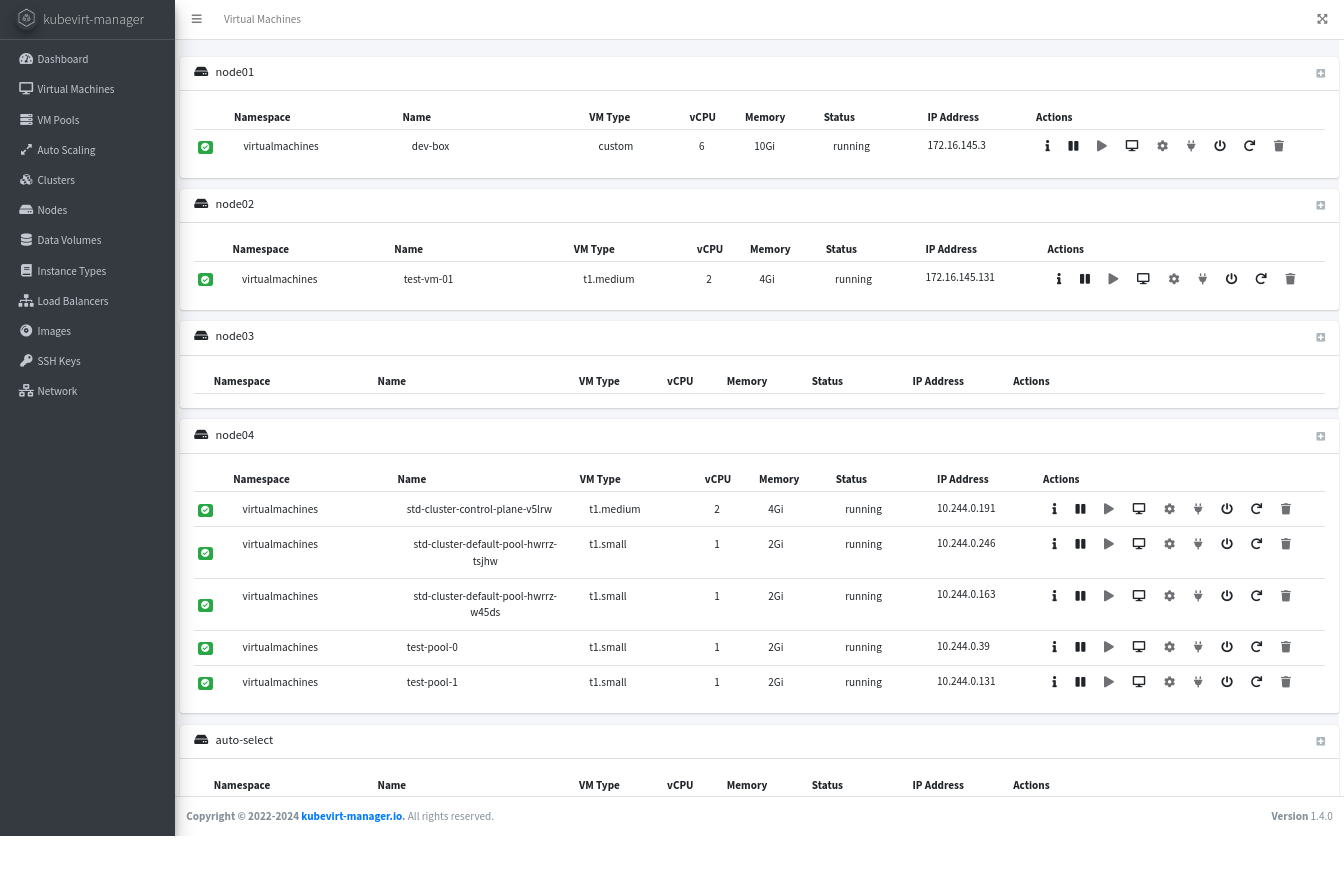
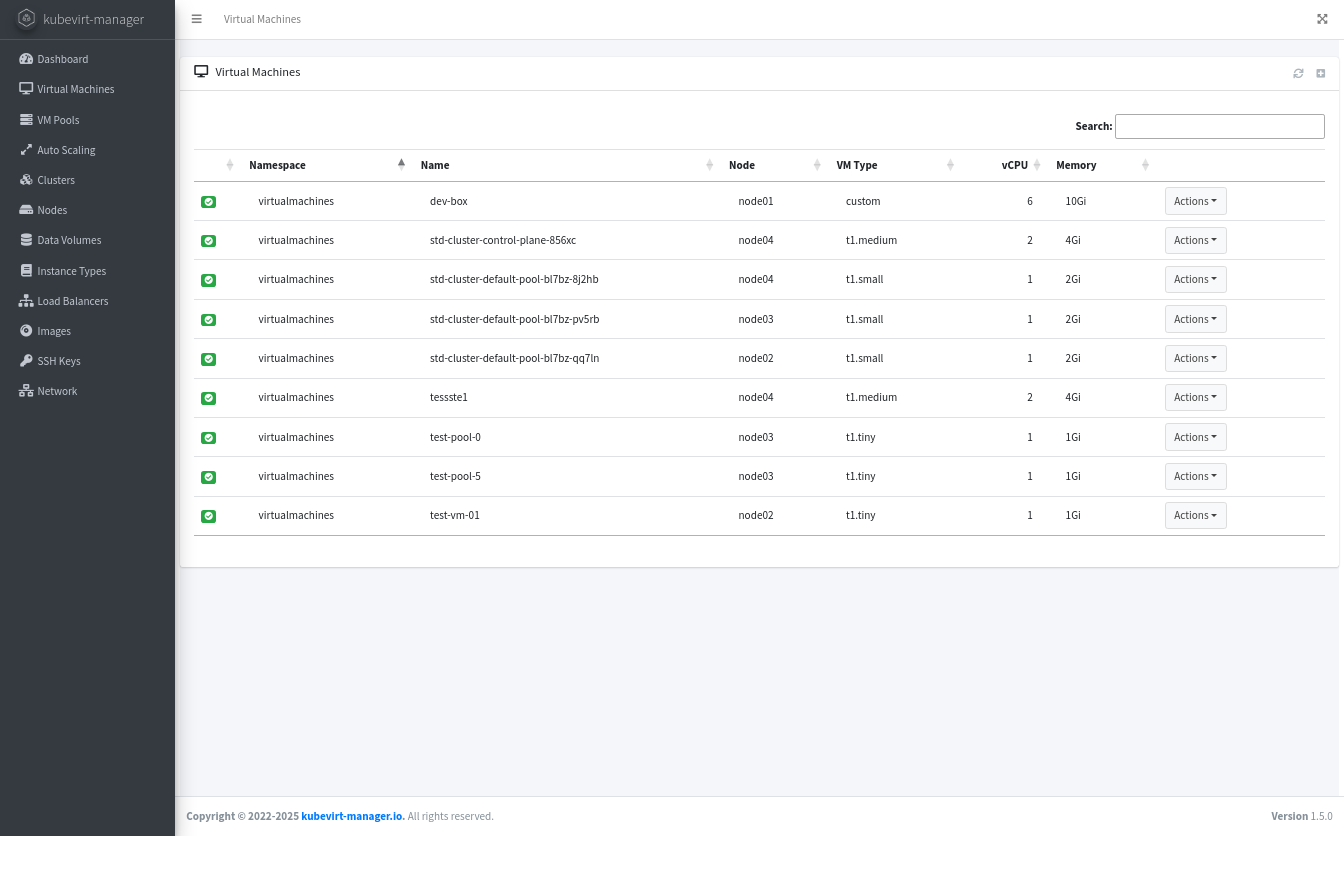
Release 1.5.0
Update website to reflect 1.5.0 and screenshots.

diff --git a/get_started.html b/get_started.html
@@ -164,7 +164,7 @@
               namespace: kubevirt-manager
               labels:
                 app: kubevirt-manager
-                kubevirt-manager.io/version: 1.4.1
+                kubevirt-manager.io/version: 1.5.0
                 kubevirt-manager.io/managed: "true"
             data:
               prometheus.conf: |
@@ -206,7 +206,7 @@
               namespace: kubevirt-manager
               labels:
                 app: kubevirt-manager
-                kubevirt-manager.io/version: 1.4.1
+                kubevirt-manager.io/version: 1.5.0
                 kubevirt-manager.io/managed: "true"
             data:
               basicauth.conf: |
@@ -225,7 +225,7 @@
               namespace: kubevirt-manager
               labels:
                 app: kubevirt-manager
-                kubevirt-manager.io/version: 1.4.1
+                kubevirt-manager.io/version: 1.5.0
                 kubevirt-manager.io/managed: "true"
             data:
               .htpasswd: YWRtaW46JGFwcjEkMk53ckdFZVkkZmtPZkZldVR4Rm5pZzBsc2NaV3c1MQo=
@@ -278,7 +278,7 @@
             <div class="row-footer">&nbsp;</div>
             <div class="row-footer"><span style="font-weight:bold;">kubevirt-manager</span></div>
             <div class="row-footer">Licensed under <A HREF="https://www.apache.org/licenses/LICENSE-2.0.html" style="color:white;font-weight:bold;">Apache License 2.0.</A></div>
-            <div class="row-footer">Copyright © 2022-2024 <span style="font-weight:bold;">KubeVirt Manager</span>.</div>
+            <div class="row-footer">Copyright © 2022-2025 <span style="font-weight:bold;">KubeVirt Manager</span>.</div>
             <div class="row-footer">All rights reserved.</div>
           </div>
           <div class="column-footer-icons">

diff --git a/index.html b/index.html
@@ -211,7 +211,7 @@
         <div class="row">&nbsp;</div>
         <div class="row">
         <div class="column-full">
-            <center><a href="https://kubevirt-manager.io/get_started.html" alt="#"><h1 id="question-text">Get started now! Latest Release: 1.4.1</h1></a></center>
+            <center><a href="https://kubevirt-manager.io/get_started.html" alt="#"><h1 id="question-text">Get started now! Latest Release: 1.5.0</h1></a></center>
         </div>
         </div>
         <div class="row">&nbsp;</div>
@@ -228,7 +228,7 @@
             <div class="row-footer">&nbsp;</div>
             <div class="row-footer"><span style="font-weight:bold;">kubevirt-manager</span></div>
             <div class="row-footer">Licensed under <A HREF="https://www.apache.org/licenses/LICENSE-2.0.html" style="color:white;font-weight:bold;">Apache License 2.0.</A></div>
-            <div class="row-footer">Copyright © 2022-2024 <span style="font-weight:bold;">KubeVirt Manager</span>.</div>
+            <div class="row-footer">Copyright © 2022-2025 <span style="font-weight:bold;">KubeVirt Manager</span>.</div>
             <div class="row-footer">All rights reserved.</div>
           </div>
           <div class="column-footer-icons">

diff --git a/community.html b/community.html
@@ -181,7 +181,7 @@
             <div class="row-footer">&nbsp;</div>
             <div class="row-footer"><span style="font-weight:bold;">kubevirt-manager</span></div>
             <div class="row-footer">Licensed under <A HREF="https://www.apache.org/licenses/LICENSE-2.0.html" style="color:white;font-weight:bold;">Apache License 2.0.</A></div>
-            <div class="row-footer">Copyright © 2022-2024 <span style="font-weight:bold;">KubeVirt Manager</span>.</div>
+            <div class="row-footer">Copyright © 2022-2025 <span style="font-weight:bold;">KubeVirt Manager</span>.</div>
             <div class="row-footer">All rights reserved.</div>
           </div>
           <div class="column-footer-icons">

diff --git a/features.html b/features.html
@@ -216,7 +216,7 @@
             <div class="row-footer">&nbsp;</div>
             <div class="row-footer"><span style="font-weight:bold;">kubevirt-manager</span></div>
             <div class="row-footer">Licensed under <A HREF="https://www.apache.org/licenses/LICENSE-2.0.html" style="color:white;font-weight:bold;">Apache License 2.0.</A></div>
-            <div class="row-footer">Copyright © 2022-2024 <span style="font-weight:bold;">KubeVirt Manager</span>.</div>
+            <div class="row-footer">Copyright © 2022-2025 <span style="font-weight:bold;">KubeVirt Manager</span>.</div>
             <div class="row-footer">All rights reserved.</div>
           </div>
           <div class="column-footer-icons">
